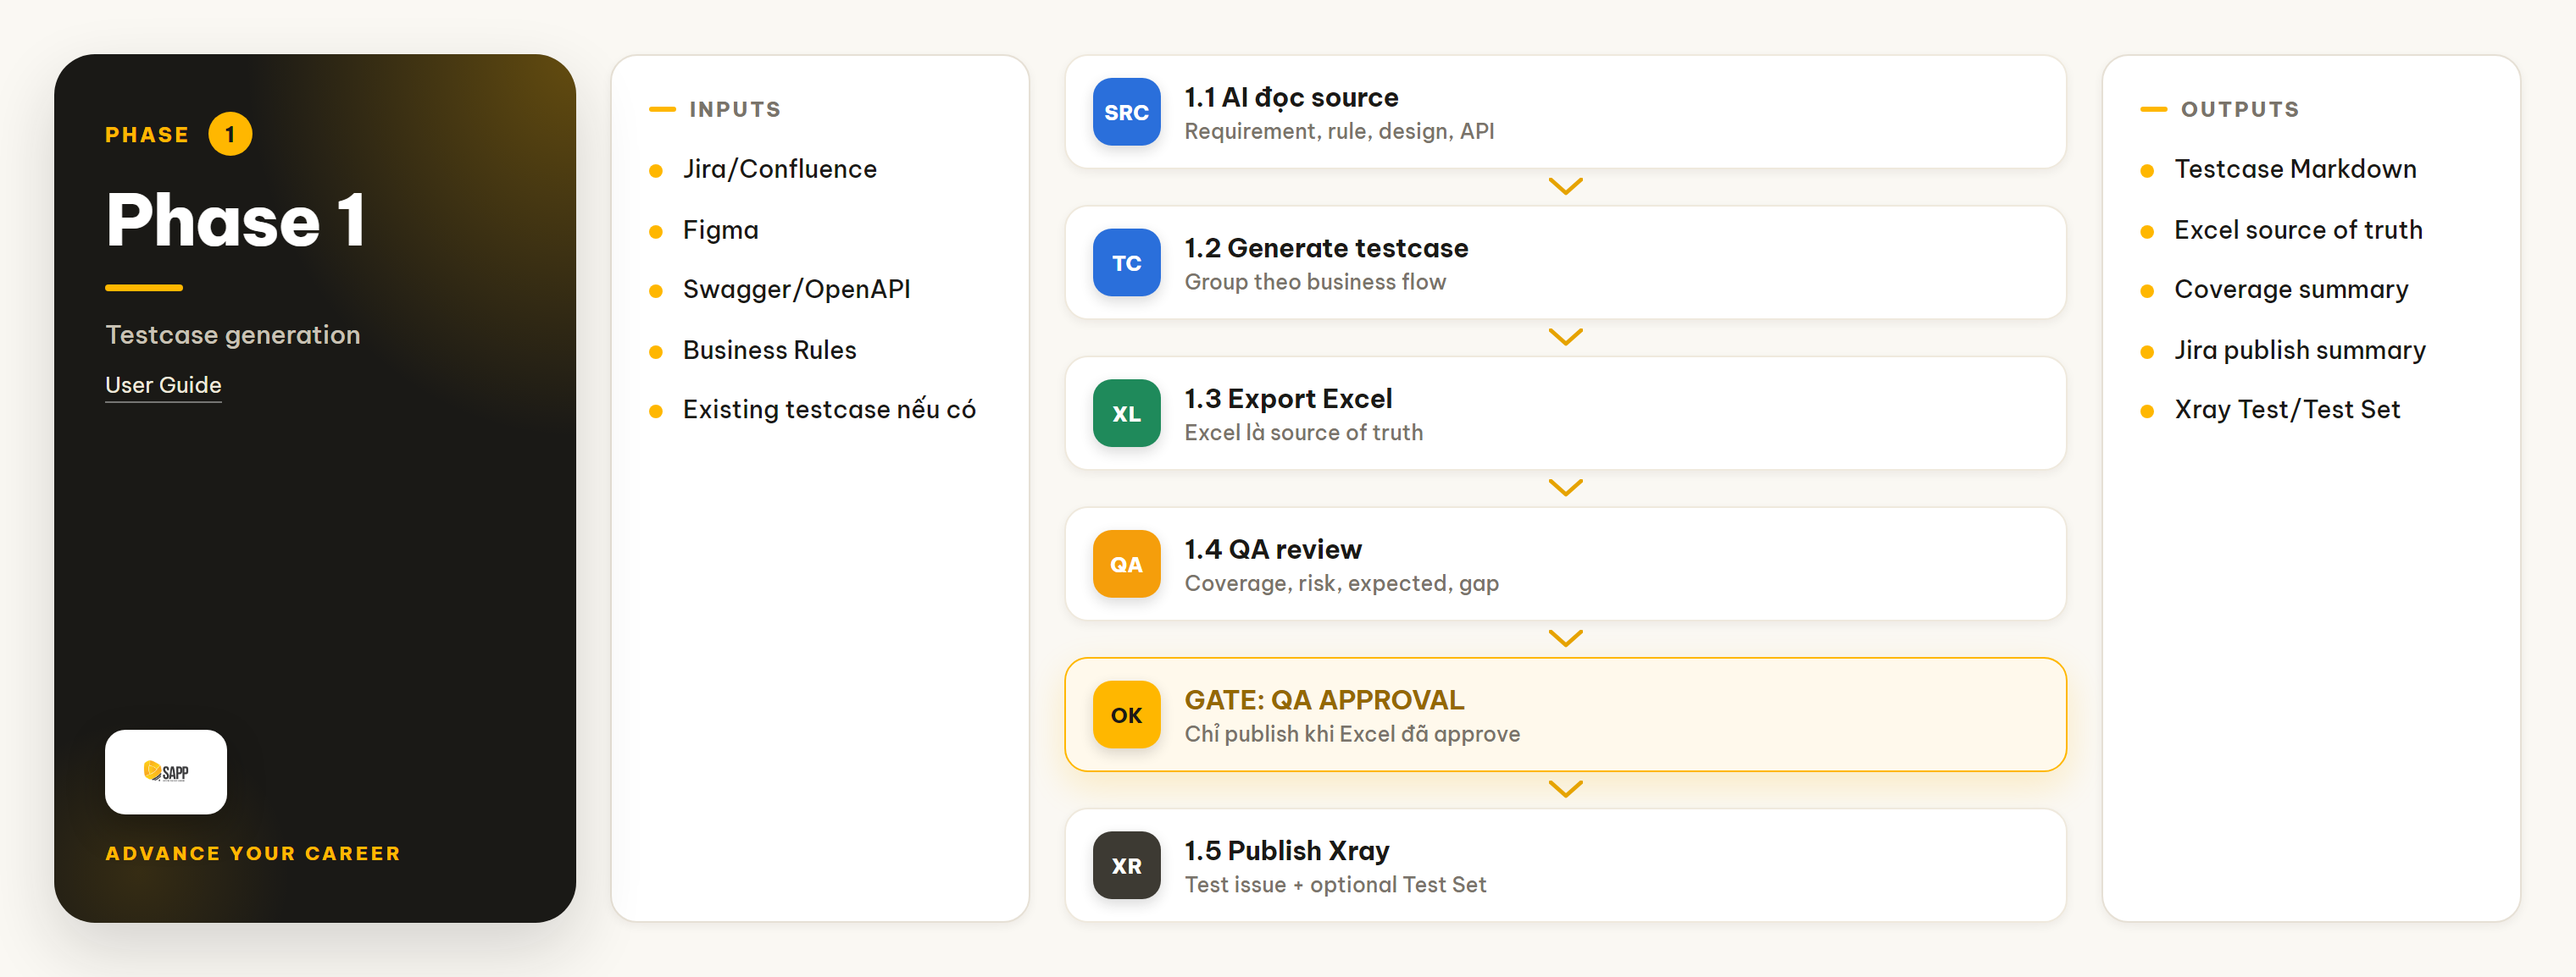
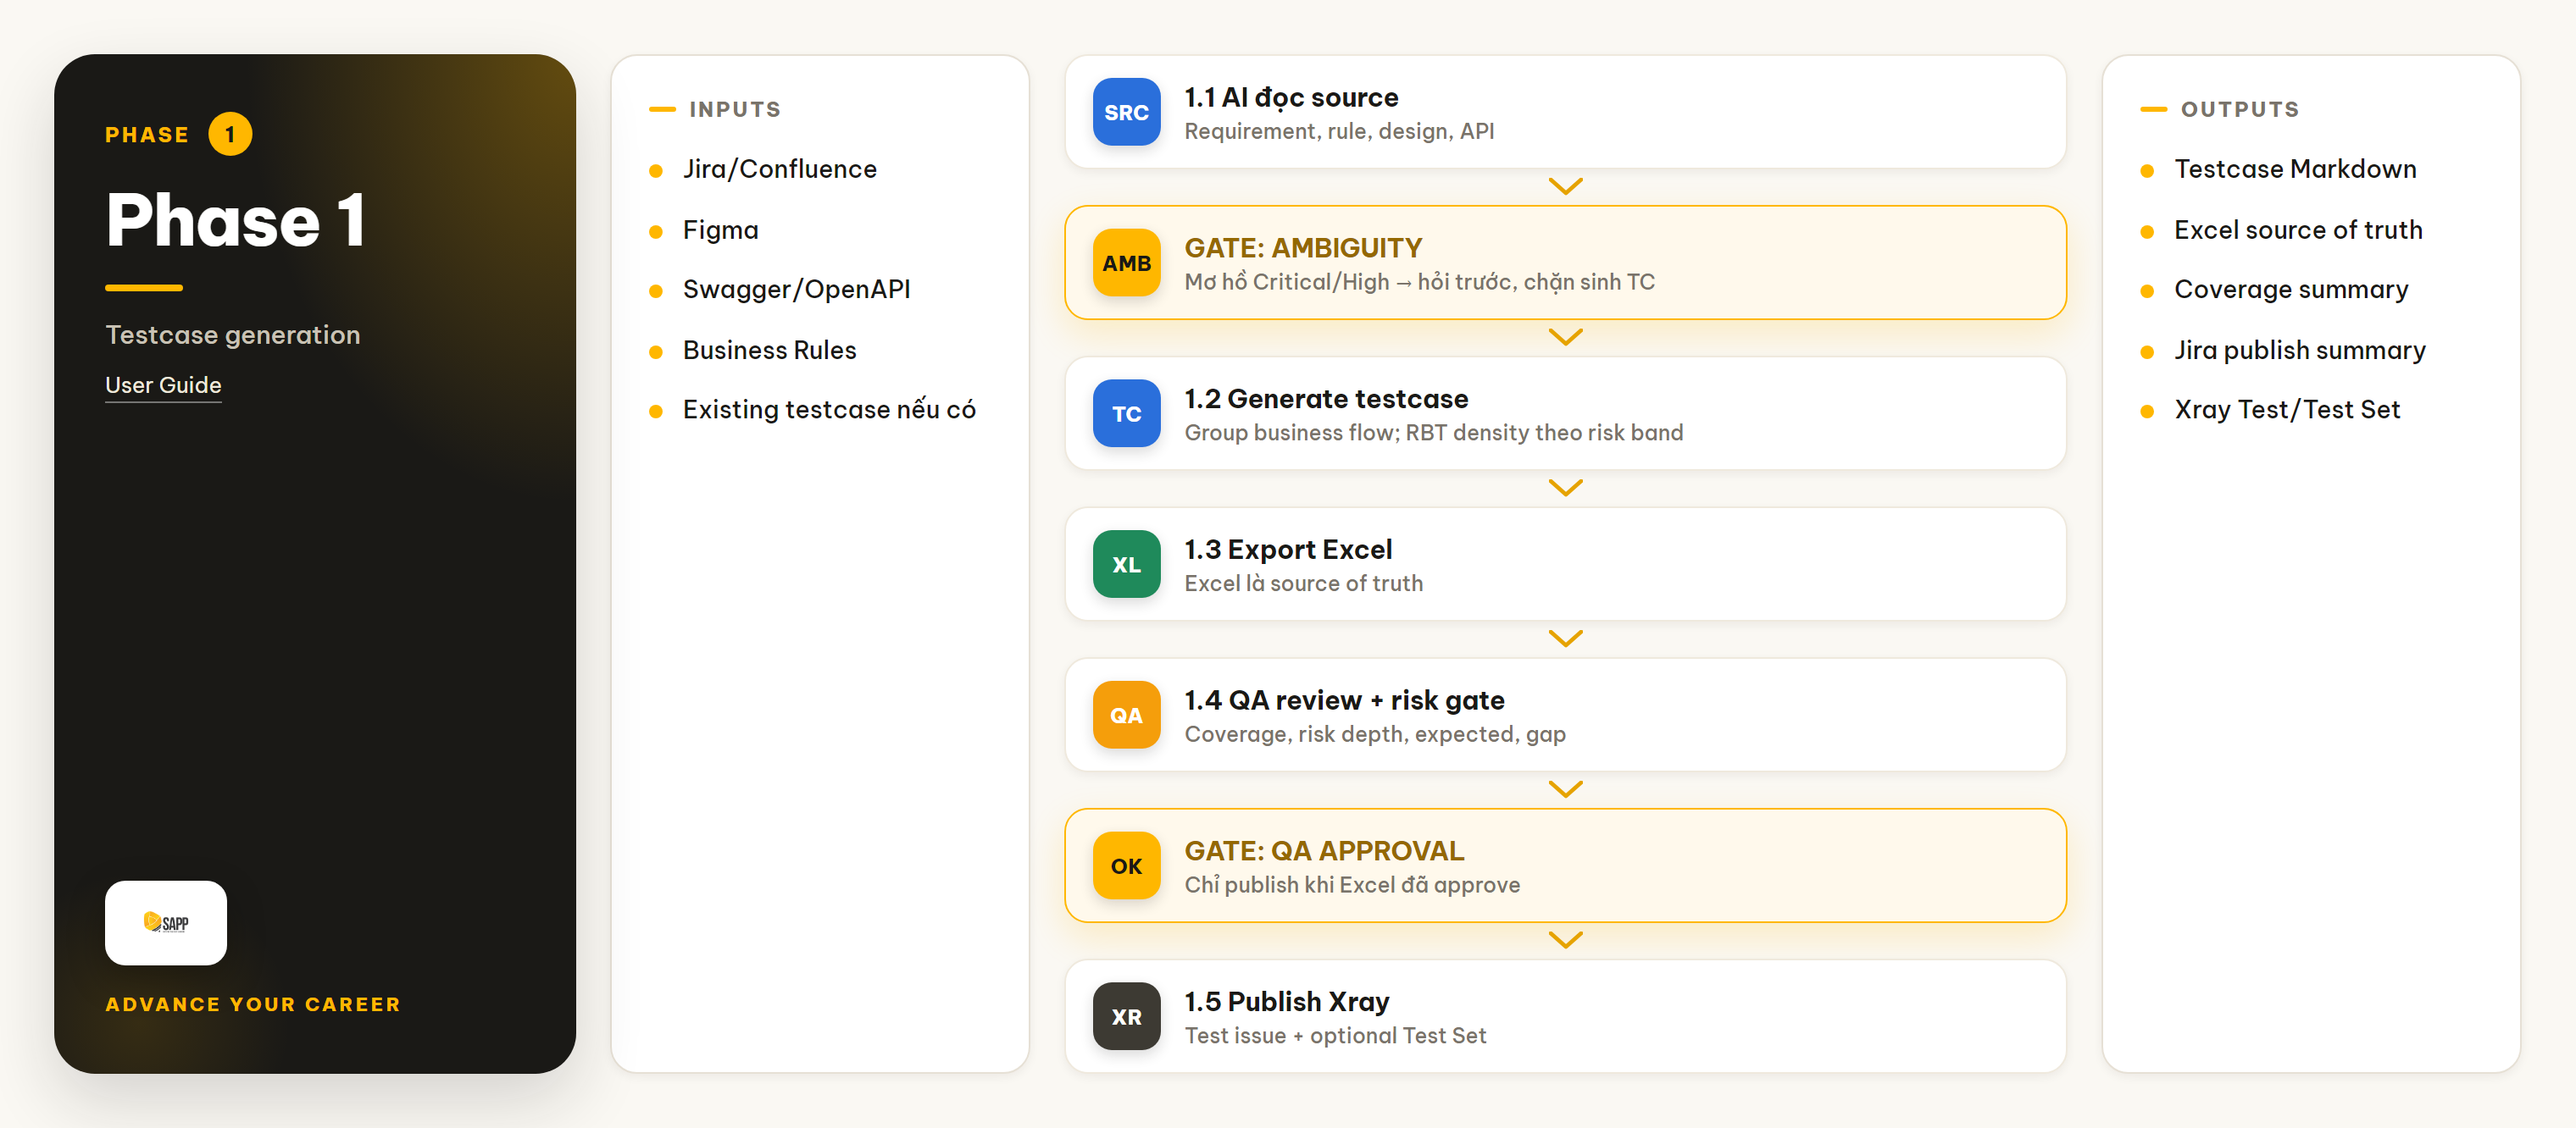
docs(kit): cập nhật README/QUICKSTART/USER_GUIDE/RULE_GLOBAL + diagram cho năng lực mới
Đồng bộ tài liệu với các năng lực thêm phiên này (learning loop/RBT, ambiguity gate,
non-functional executable, mobile-web, exploratory, dashboard).

- Diagram (generate_user_guide_images.mjs, npm "user-guide:images"): thêm board
  advanced-capabilities.png (non-functional/learning; Exploratory = nhánh phụ ngoài Main Flow);
  phase1-quality-gate thêm Ambiguity Gate; phase-selection thêm nhánh Exploratory/Non-functional.
- README: folder structure (knowledge/exploratory/scripts-qa/tests-mobile-web/tests-load) +
  Main Components + Common Commands (10 lệnh mới).
- QUICKSTART: prerequisites (Docker/k6 + 2 account optional) + mục QA Checks (executable).
- USER_GUIDE: mục 12 "Năng lực nâng cao" + ảnh board mới (không đụng mục 1-11 cũ).
- RULE_GLOBAL: subsection autonomy & safety cho năng lực executable.

diff --git a/USER_GUIDE.md b/USER_GUIDE.md
@@ -15,6 +15,7 @@
 - [9. Prompt và command thường dùng](#9-prompt-và-command-thường-dùng)
 - [10. Lỗi thường gặp và cách xử lý](#10-lỗi-thường-gặp-và-cách-xử-lý)
 - [11. Phụ lục](#11-phụ-lục)
+- [12. Năng lực nâng cao (Non-functional · Learning · Nhánh phụ)](#12-năng-lực-nâng-cao-non-functional--learning--nhánh-phụ)
 
 ## 1. Tổng quan
 
@@ -106,6 +107,7 @@ outputs/<project>/tasks/<TASK_KEY>/task.md
 | Git client | QA Member, QA Lead, Automation | Pull kit mới nhất và push thay đổi lên GitLab/GitHub nếu team yêu cầu. |
 | Node.js `>=18` | QA Member, Automation | Chạy script, Playwright và converter Excel. |
 | Playwright browser runtime | QA Member, Automation | Execute UI/API automation và tạo evidence. |
+| Docker **hoặc** k6 (optional) | Automation | Chỉ cần khi chạy **load test Loại B** (`npm run load`); thiếu thì lệnh tự bỏ qua. Xem mục 12. |
 | Quyền Jira/Confluence/Figma/Swagger | QA Member, QA Lead | Đọc requirement/design/API source theo từng story/task. |
 | Credential app/API test | QA Member, Automation | Login app, gọi API và tạo/rollback test data. |
 
@@ -1149,3 +1151,36 @@ Chi tiết ở Mục 8.
 | `partial-rerun/run_requirement_apply_approved.md` | Partial Rerun - Apply Approved. |
 | `tests/support/setup/README.md` | Setup layer dùng chung (factory/hook/fixture/mock/cleanup/contract). |
 | `.agent/skills/shared/precondition_setup_planner/SKILL.md` | Phân loại tiền điều kiện, chọn setup method, readiness/blocker. |
+
+## 12. Năng lực nâng cao (Non-functional · Learning · Nhánh phụ)
+
+Ngoài Main Flow (Phase 1 → 2 → Re-run), kit có nhóm năng lực **chạy được, tách biệt, opt-in** — tất cả tái dùng hạ tầng sẵn có (login/catalog/report) và tuân **Autonomy Gate** (Suggest-only / threshold-gated / never-auto). Đây KHÔNG phải bước bắt buộc của Main Flow; Exploratory và load/security là nhánh phụ, chạy khi cần.
+
+![Sơ đồ năng lực nâng cao](docs/user-guide-images/advanced-capabilities.png)
+
+### 12.1 Learning loop + Risk-Based Testing
+- **Knowledge Base** (`knowledge/`): sau mỗi task, `learning_recorder` ghi bug đã qua gate + root cause + snapshot pass/fail. Đây là bộ nhớ học, dùng lại xuyên task (live khởi tạo rỗng; `knowledge/examples/` là mẫu).
+- **Risk Scorer** (`npm run risk`): chấm `Risk = Likelihood × Impact` mỗi module từ `knowledge/` + `.agent/config/risk_model.json` → `reports/risk-register.{md,json}`. Cold-start (chưa có data) → band do **Impact** dẫn; QA **override band** nếu không đồng ý. `npm run risk:gate` (cảnh báo) / `risk:gate:enforce` (chặn CI khi module High thiếu độ sâu).
+- **Git Impact Analyzer**: đọc git diff → bề mặt dùng chung, làm input cho Change Impact (mục 17 gen testcase).
+
+### 12.2 Human checkpoint — Ambiguity Gate
+Phase 1 **chặn sinh testcase** khi requirement mơ hồ mức Critical/High: xuất Q&A + assumption vào `reports/phase1-clarifications.md`, đặt `AMBIGUITY_GATE: PENDING` và dừng chờ QA/BA. Chỉ khi RESOLVED mới sinh TC.
+
+### 12.3 Non-functional (chạy thật, so ngưỡng)
+| Năng lực | Lệnh | Ghi chú an toàn |
+|---|---|---|
+| Accessibility (axe-core) | `npm run accessibility -- --catalog <ui_catalog.json>` | never-auto; finding review |
+| Performance Loại A (single-user) | `npm run perf -- --catalog <perf_catalog.json>` | threshold-gated; verdict **advisory** (median N lần, UAT nhiễu) |
+| Security basic | `npm run security -- --catalog <security_catalog.json> --confirm-nonprod` | **GET/read-only, non-prod, mask PII**; fuzzing/ZAP là Manual-only |
+| Load Loại B (nhiều VU) | `npm run load -- --script tests/load/example.load.js --confirm-nonprod --docker` | k6 (binary ngoài/Docker), **non-prod, cap**; thiếu k6 → skip sạch |
+| Mobile-web | `npm run test:mobile-web` | device emulation thật (iPhone 13 / Pixel 7) |
+
+Ngưỡng perf/load lấy từ **NFR/SLA** (không bịa số). Perf Loại A = single-user; Load Loại B = tải nhiều VU (k6, KHÔNG dùng Playwright).
+
+### 12.4 Nhánh phụ & tiện ích
+- **Exploratory** (`exploratory/run_exploratory_session.md`): dò rủi ro ngoài testcase đã review; **never-auto**, ngoài Main Flow; draft phải qua `tc_validator` mới tính coverage.
+- **Manual QUICK** (`prompt_templates/phase1/05_manual_quick.md`): sinh nhanh testcase chạy tay (có cột thực thi) khi requirement đã rõ.
+- **Combinatorial/Pairwise** (`prompt_templates/phase1/06_cross_module.md`): ma trận tổ hợp nhiều biến — mặc định Pairwise + constraints (chống nổ case).
+- **Dashboard** (`npm run dashboard`): tổng hợp coverage/risk/flaky/non-functional theo **SAPP Academy Design System** → `reports/dashboard.html`.
+
+> Locator Healing (Phase 2, threshold-gated, opt-in `LOCATOR_HEAL=1`): chỉ heal locator ACTION khi confidence cao, KHÔNG heal locator assertion (chống false PASS).

diff --git a/README.md b/README.md
@@ -66,7 +66,8 @@ test-automation-kit/
 │   ├── config/
 │   ├── workflows/
 │   │   ├── phase1_generate_tc.md            # entry Phase 1
-│   │   ├── phase1_01_prepare_context.md
+│   │   ├── phase1_00_scope_planning.md      # optional: RBT scope + risk register
+│   │   ├── phase1_01_prepare_context.md     # gồm Ambiguity Gate (chặn sinh TC khi mơ hồ)
 │   │   ├── phase1_02_generate_testcases.md
 │   │   ├── phase1_03_validate_export_report.md
 │   │   ├── phase1_04_auto_publish_jira.md
@@ -94,9 +95,14 @@ test-automation-kit/
 │   └── reference.md
 ├── scripts/
 │   ├── convert_excel/
-│   └── integrations/
+│   ├── integrations/
+│   └── qa/   # công cụ QA chạy thật: dashboard, accessibility, perf, security, load, risk_score/gate, ui_conformance
 ├── tests/
-│   └── support/setup/   # setup layer dùng chung (factory/hook/fixture/mock/cleanup/contract)
+│   ├── support/setup/   # setup layer dùng chung (factory/hook/fixture/mock/cleanup/contract)
+│   ├── mobile-web/       # spec mobile-web (Playwright device emulation)
+│   └── load/             # k6 load script (Loại B, opt-in)
+├── knowledge/            # bộ nhớ học: bugs/root_causes/locators/historical_execution (+ examples/) — learning loop
+├── exploratory/          # nhánh phụ never-auto (charter-based), ngoài Main Flow
 ├── profiles/
 │   └── <TASK_KEY>/task.env   # env động theo task, nạp qua TASK_ENV (tạo bằng npm run profile:create)
 ├── outputs/
@@ -125,6 +131,9 @@ test-automation-kit/
 | `scripts/convert_excel/` | Convert testcase Markdown sang Excel. |
 | `scripts/integrations/jira/` | Kiểm tra Jira connection và log bug. |
 | `scripts/integrations/google_sheet/` | Tích hợp Google Sheet khi project cần sync/export. |
+| `scripts/qa/` | Công cụ QA chạy thật (tái dùng login/catalog): `dashboard_generate` (SAPP DS), `accessibility_check` (axe-core), `perf_check` (Loại A), `security_check` (GET, non-prod), `load_check` (k6 wrapper, Loại B), `risk_score`/`risk_gate` (RBT), `ui_conformance_check`. Xem `scripts/qa/README.md`. |
+| `knowledge/` | Bộ nhớ học (learning loop): bug/root cause/locator heal/snapshot pass-fail đã qua gate → nguồn cho RBT + dashboard. `knowledge/examples/` là dữ liệu mẫu; `knowledge/` live khởi tạo rỗng. |
+| `exploratory/` | Nhánh phụ độc lập (never-auto, charter-based) — dò rủi ro ngoài testcase đã review; draft phải qua `tc_validator` mới tính coverage. |
 | `tests/support/setup/` | Setup layer dùng chung: factory/hook/fixture/mock/cleanup/contract cho Precondition Resolution Pass (xem `tests/support/setup/README.md`). |
 | `profiles/` | Env động theo từng task (`profiles/<TASK_KEY>/task.env`, nạp qua `TASK_ENV`); giá trị tĩnh vẫn ở `.env` chung. Tạo bằng `npm run profile:create -- <TASK_KEY>`. |
 | `outputs/` | Artifact theo project/task, không hardcode theo một project cụ thể. |
@@ -181,6 +190,15 @@ flowchart TD
 | Run task-scoped FE safely | `npm run test:task:fe -- --project-output <PROJECT_OUTPUT_DIR> --task <TASK_KEY>` |
 | Run task-scoped API safely | `npm run test:task:api -- --project-output <PROJECT_OUTPUT_DIR> --task <TASK_KEY>` |
 | Show report helper | `npm run report` |
+| QA Dashboard (SAPP DS) | `npm run dashboard` |
+| Accessibility (axe-core) | `npm run accessibility -- --catalog <ui_catalog.json>` |
+| Performance Loại A (đo, so ngưỡng) | `npm run perf -- --catalog <perf_catalog.json>` |
+| Security basic (GET, non-prod) | `npm run security -- --catalog <security_catalog.json> --confirm-nonprod` |
+| Load Loại B (k6, non-prod) | `npm run load -- --script tests/load/example.load.js --confirm-nonprod --docker` |
+| Risk register (RBT) | `npm run risk` |
+| Risk gate (cảnh báo / chặn CI) | `npm run risk:gate` · `npm run risk:gate:enforce` |
+| Mobile-web (device emulation) | `npm run test:mobile-web` |
+| Regenerate user-guide images | `npm run user-guide:images` |
 | Check Jira connection | `npm run integration:check` |
 | Check Jira connection live | `npm run integration:check:live` |
 | Dry-run publish testcase Jira | `npm run jira:testcase-publish:dry-run -- --task <TASK_KEY> --story <JIRA_STORY_KEY> --project-output <PROJECT_OUTPUT_DIR>` |

diff --git a/RULE_GLOBAL.md b/RULE_GLOBAL.md
@@ -200,6 +200,16 @@ Jira bug gate khác với Jira testcase publish. Jira testcase publish diễn ra
 - Jira evidence chỉ dùng ảnh hoặc video khi log/upload bug.
 - Không upload `.md`, `.txt`, `.log`, `.json`, `trace.zip` hoặc execution summary làm Jira evidence trừ khi user yêu cầu riêng.
 
+### Executable QA capabilities (autonomy & safety)
+
+Các năng lực chạy thật trong `scripts/qa/` + `exploratory/` phải khai rõ mức tự chủ và tuân ràng buộc an toàn:
+
+- **Autonomy Gate**: Suggest-only (learning_recorder, risk_score, git_impact, scope_planner) · threshold-gated (locator healing `LOCATOR_HEAL=1`, perf advisory, risk_gate `--enforce`) · never-auto (exploratory, security_check, load_check — chỉ chạy khi user yêu cầu tường minh).
+- **Non-destructive & non-prod**: `security_check` chỉ GET/read-only + `--confirm-nonprod`; `load_check` non-prod + cap + `--confirm-nonprod`; fuzzing/exploit/brute-force/ZAP là Manual-only opt-in có phê duyệt người. TUYỆT ĐỐI không chạy trên production.
+- **Mask PII/secret** trong mọi report (security/knowledge/dashboard); không ghi credential/PII khách hàng.
+- **Learning data chỉ ghi fact đã qua gate** (bug đã qua Jira gate); band/risk máy chấm luôn cho phép QA override.
+- **Không thêm dependency nặng**: axe-core (npm) đủ cho a11y; k6 là binary ngoài (Docker/PATH, không vào deps), thiếu → skip sạch.
+
 ## Workflow
 
 ```text
